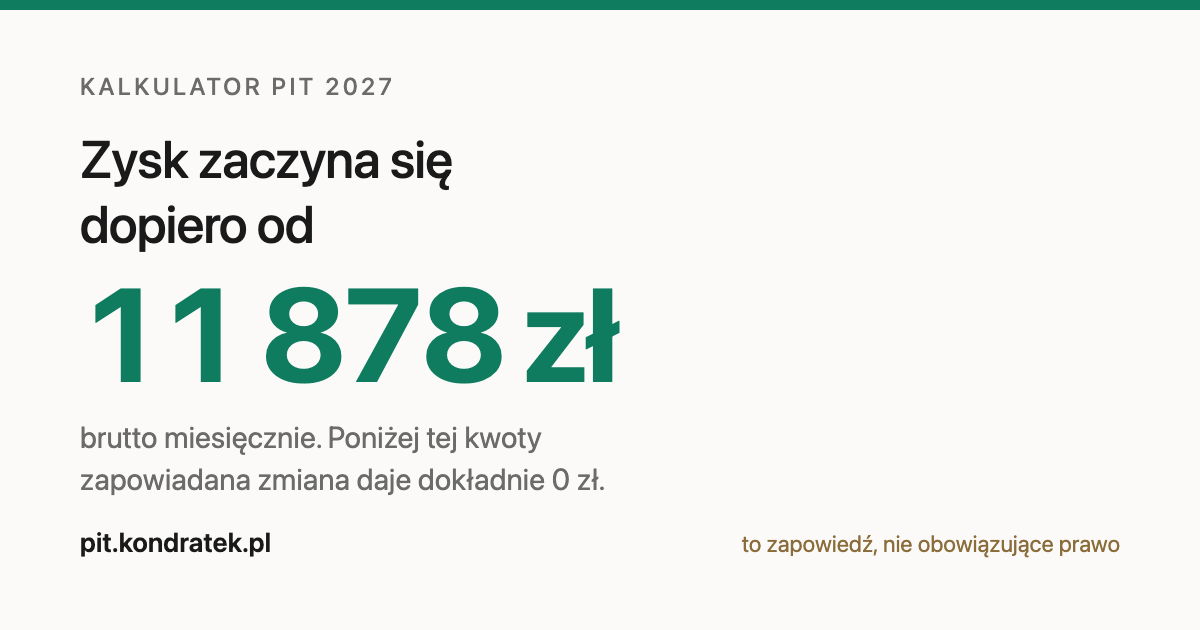
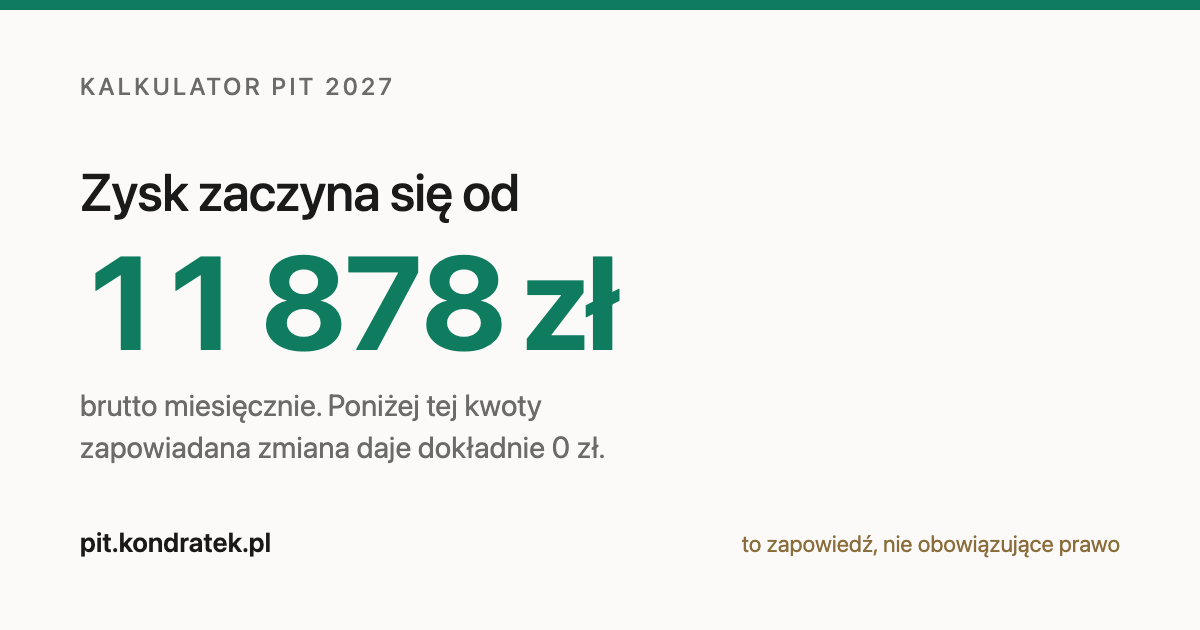
Drop a loaded word from the social card
"Dopiero" judges where the number already speaks. Same edit applies to the
in-app copy, which is pending a concurrent change to that file.

Changed region(s): [[0.0617, 0.2111, 0.5242, 0.7841], [0.1542, 0.5429, 0.185, 0.6032], [0.0925, 0.5429, 0.1233, 0.6032]]

diff --git a/og-image.html b/og-image.html
@@ -79,7 +79,7 @@
     <p class="brew">Kalkulator PIT 2027</p>
 
     <div>
-      <p class="teza">Zysk zaczyna się dopiero od</p>
+      <p class="teza">Zysk zaczyna się od</p>
       <p class="kwota">11 878 zł</p>
       <p class="dopisek">
         brutto miesięcznie. Poniżej tej kwoty zapowiadana zmiana daje dokładnie 0 zł.
